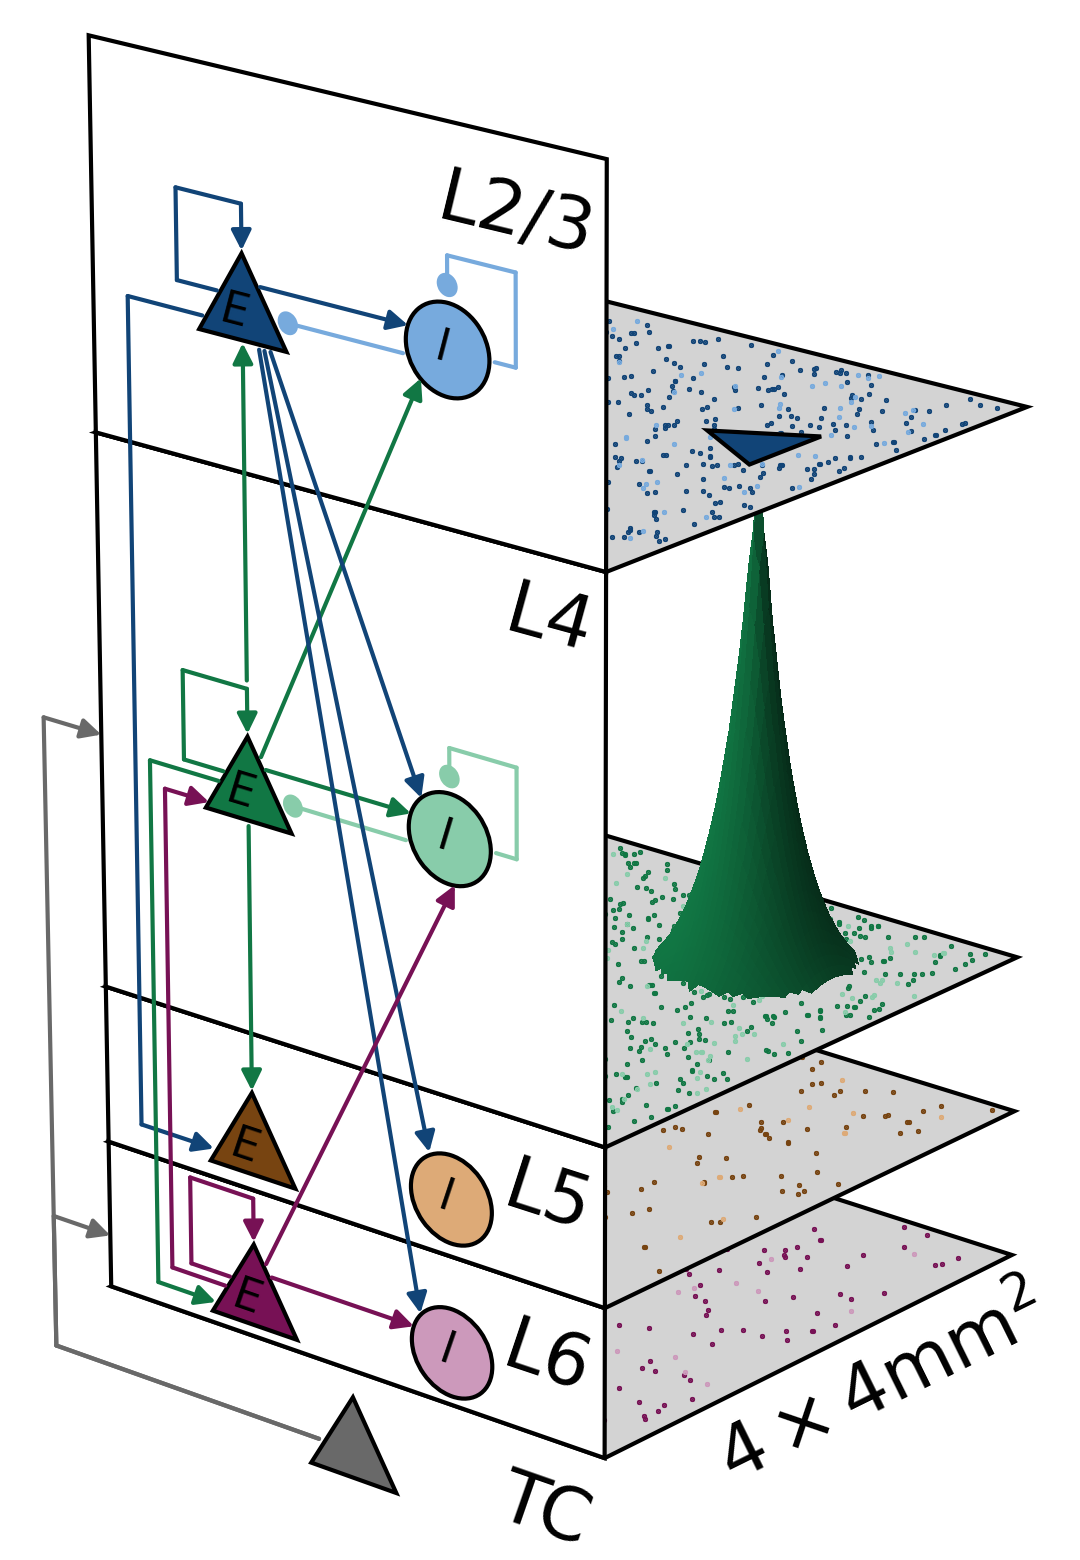
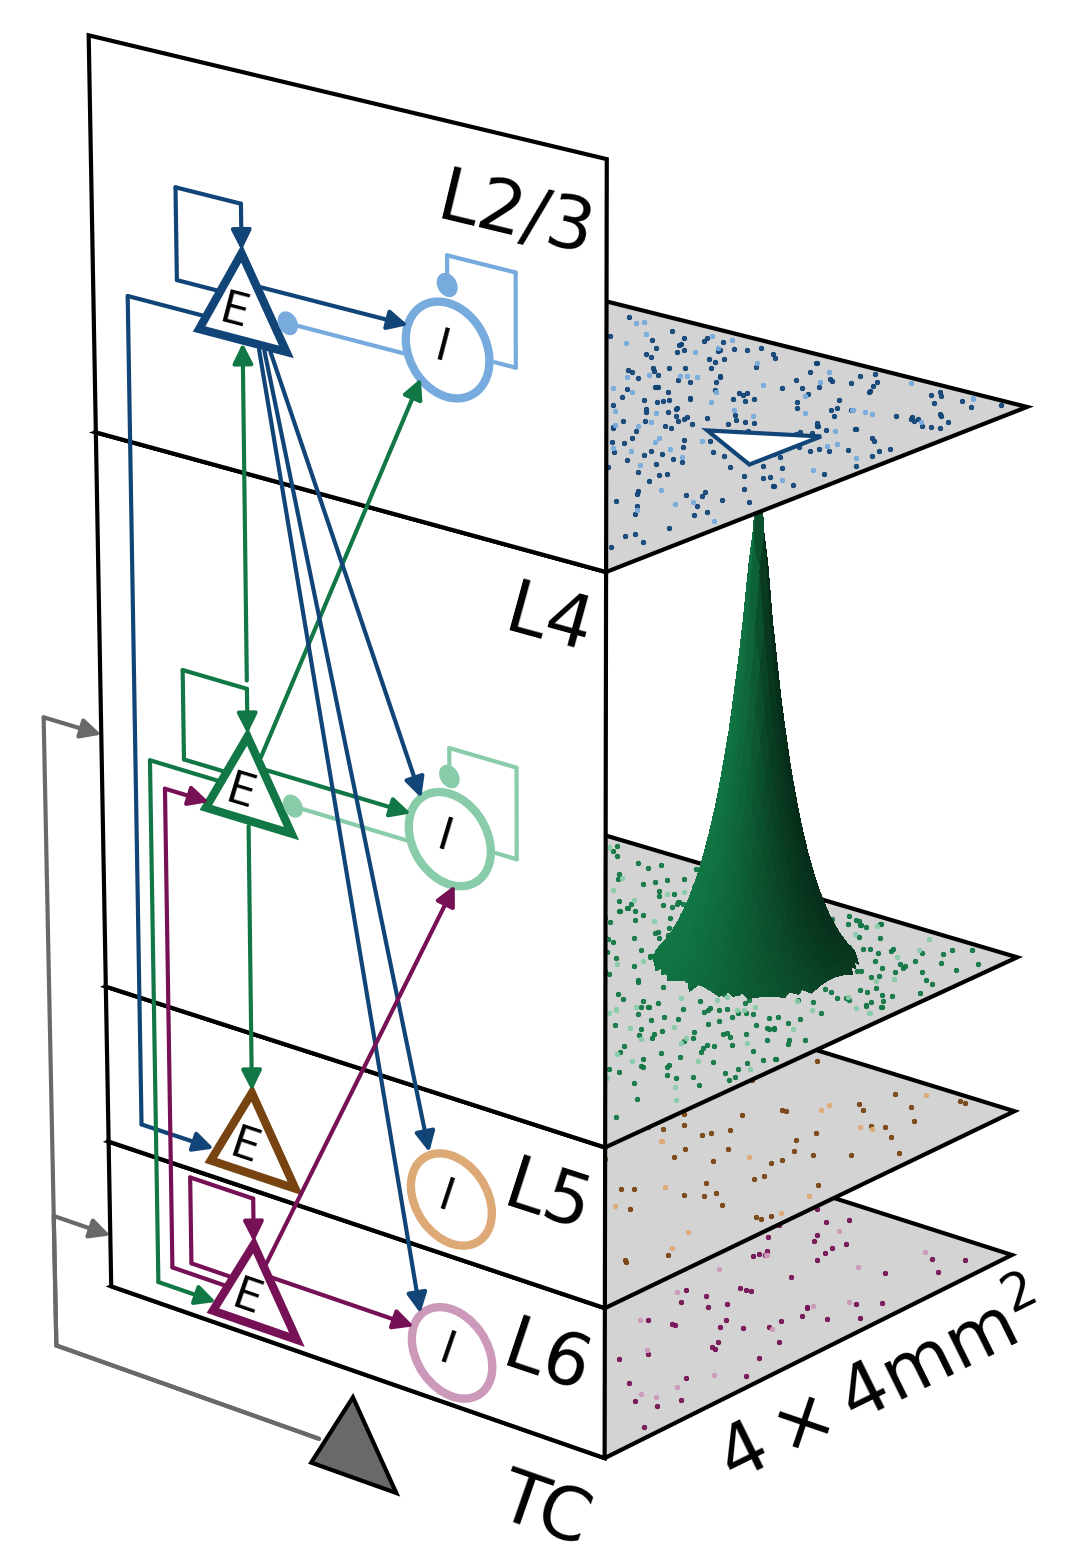
White facecolor for population nodes

diff --git a/scripts/network_sketches.py b/scripts/network_sketches.py
@@ -215,8 +215,8 @@ def plot_network_model_sketch(gs, model='upscaled'):
 
         if i == 3:
             conns = RegularPolygon(xy=conn_ctr, radius=0.1, numVertices=3, orientation=12.05,
-                                   facecolor=pop_colors[::-1][2 + 2*i],
-                                   edgecolor='k')
+                                   edgecolor=pop_colors[::-1][2 + 2*i],
+                                   facecolor='white')
             ax.add_patch(conns)
             art3d.pathpatch_2d_to_3d(conns, z=z, zdir="z")
 
@@ -256,28 +256,27 @@ def plot_network_model_sketch(gs, model='upscaled'):
         # excitatory neurons
         exc = RegularPolygon(xy=(ctr_exc[0], z_ctr-0.025), radius=0.1,
                              numVertices=3, orientation=0,
-                             facecolor=pop_colors[::-1][2 + 2*i],
-                             edgecolor='k')
+                             edgecolor=pop_colors[::-1][2 + 2*i],
+                             facecolor='white',
+                             linewidth=2)
         ax.add_patch(exc)
         art3d.pathpatch_2d_to_3d(exc, z=0, zdir="y")
 
         # inhibitory neurons
         inh = Circle(xy=(ctr_inh[0], z_ctr), radius=0.08,
-                     facecolor=pop_colors[::-1][1 + 2*i],
-                     edgecolor='k')
+                     edgecolor=pop_colors[::-1][1 + 2*i],
+                     facecolor='white',
+                     linewidth=2)
         ax.add_patch(inh)
         art3d.pathpatch_2d_to_3d(inh, z=0, zdir="y")
 
-        import matplotlib.patheffects as PathEffects
-        e_label = ax.text(x=ctr_exc[0]-0.015, y=0, z=z_lctrs[i]-0.03, s='E', zdir='x',
-                          fontsize=matplotlib.rcParams['font.size'] * 1.5, color='white',
-                          horizontalalignment='center', verticalalignment='center')
-        i_label = ax.text(x=ctr_inh[0]-0.01, y=0, z=z_lctrs[i], s='I', zdir='x',
-                          fontsize=matplotlib.rcParams['font.size'] * 1.5, color='white',
-                          horizontalalignment='center', verticalalignment='center')
-        for label in [e_label, i_label]:
-            label.set_path_effects(
-                [PathEffects.withStroke(linewidth=1, foreground='k')])
+        ax.text(x=ctr_exc[0]-0.015, y=0, z=z_lctrs[i]-0.03, s='E', zdir='x',
+                fontsize=matplotlib.rcParams['font.size'] * 1.5, color='k',
+                horizontalalignment='center', verticalalignment='center')
+        ax.text(x=ctr_inh[0]-0.01, y=0, z=z_lctrs[i], s='I', zdir='x',
+                fontsize=matplotlib.rcParams['font.size'] * 1.5, color='k',
+                horizontalalignment='center', verticalalignment='center')
+
         # excitatory connections ###############################################
 
         # same layer, E -> E
